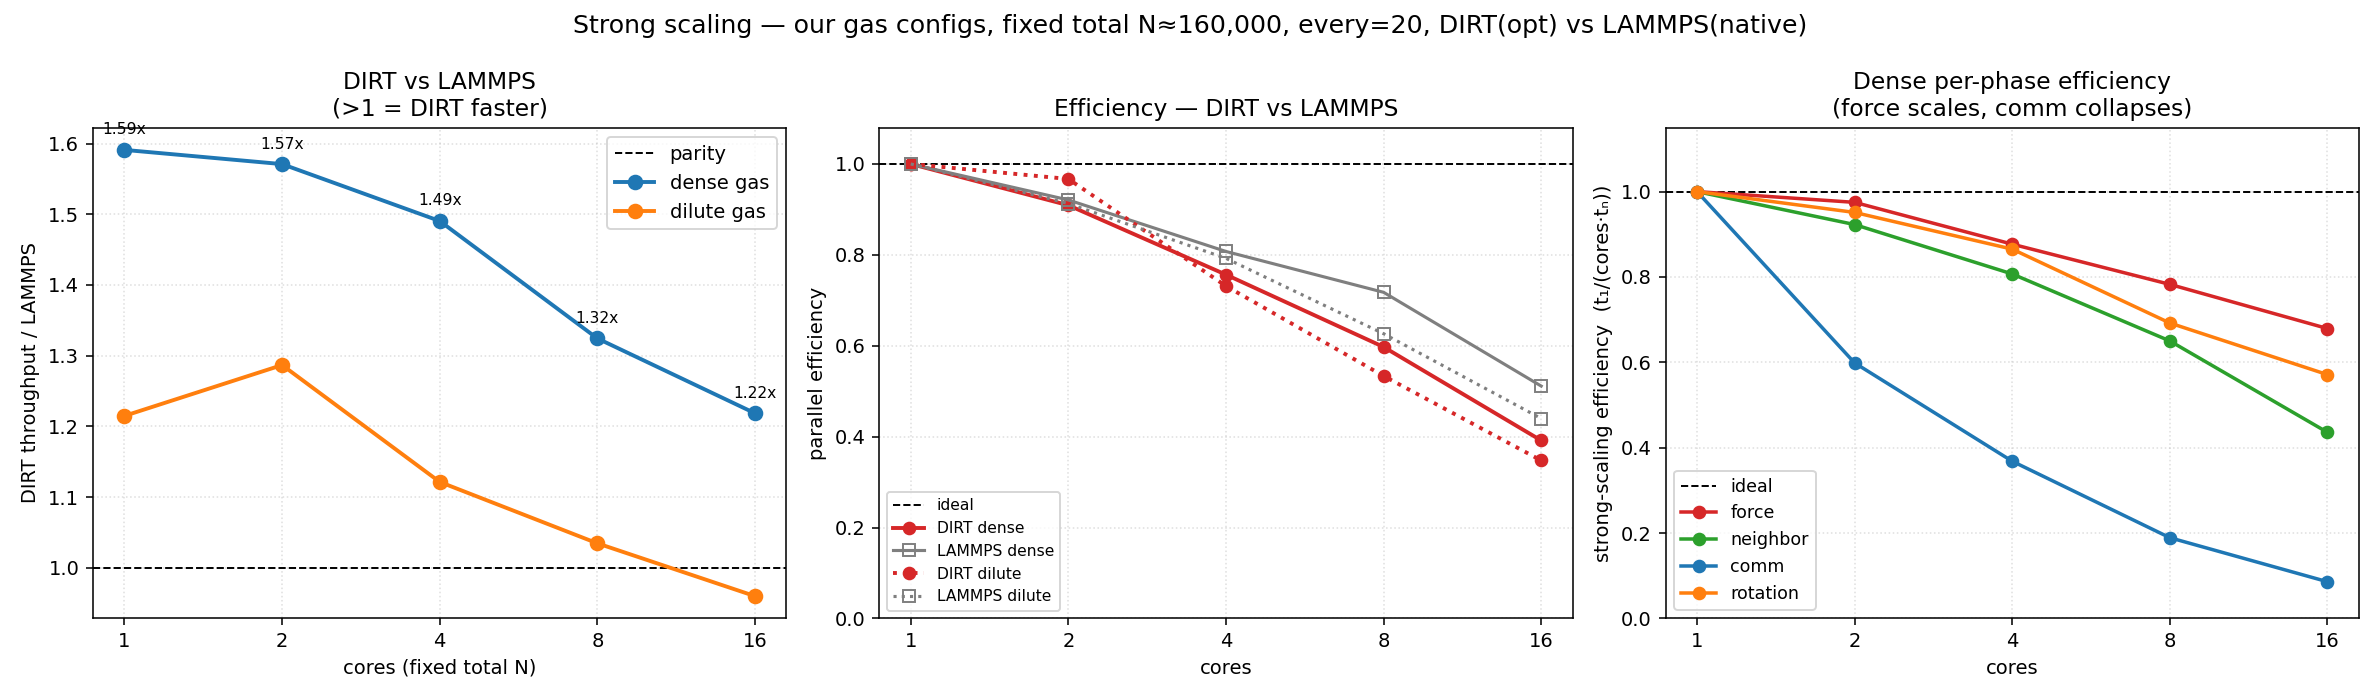
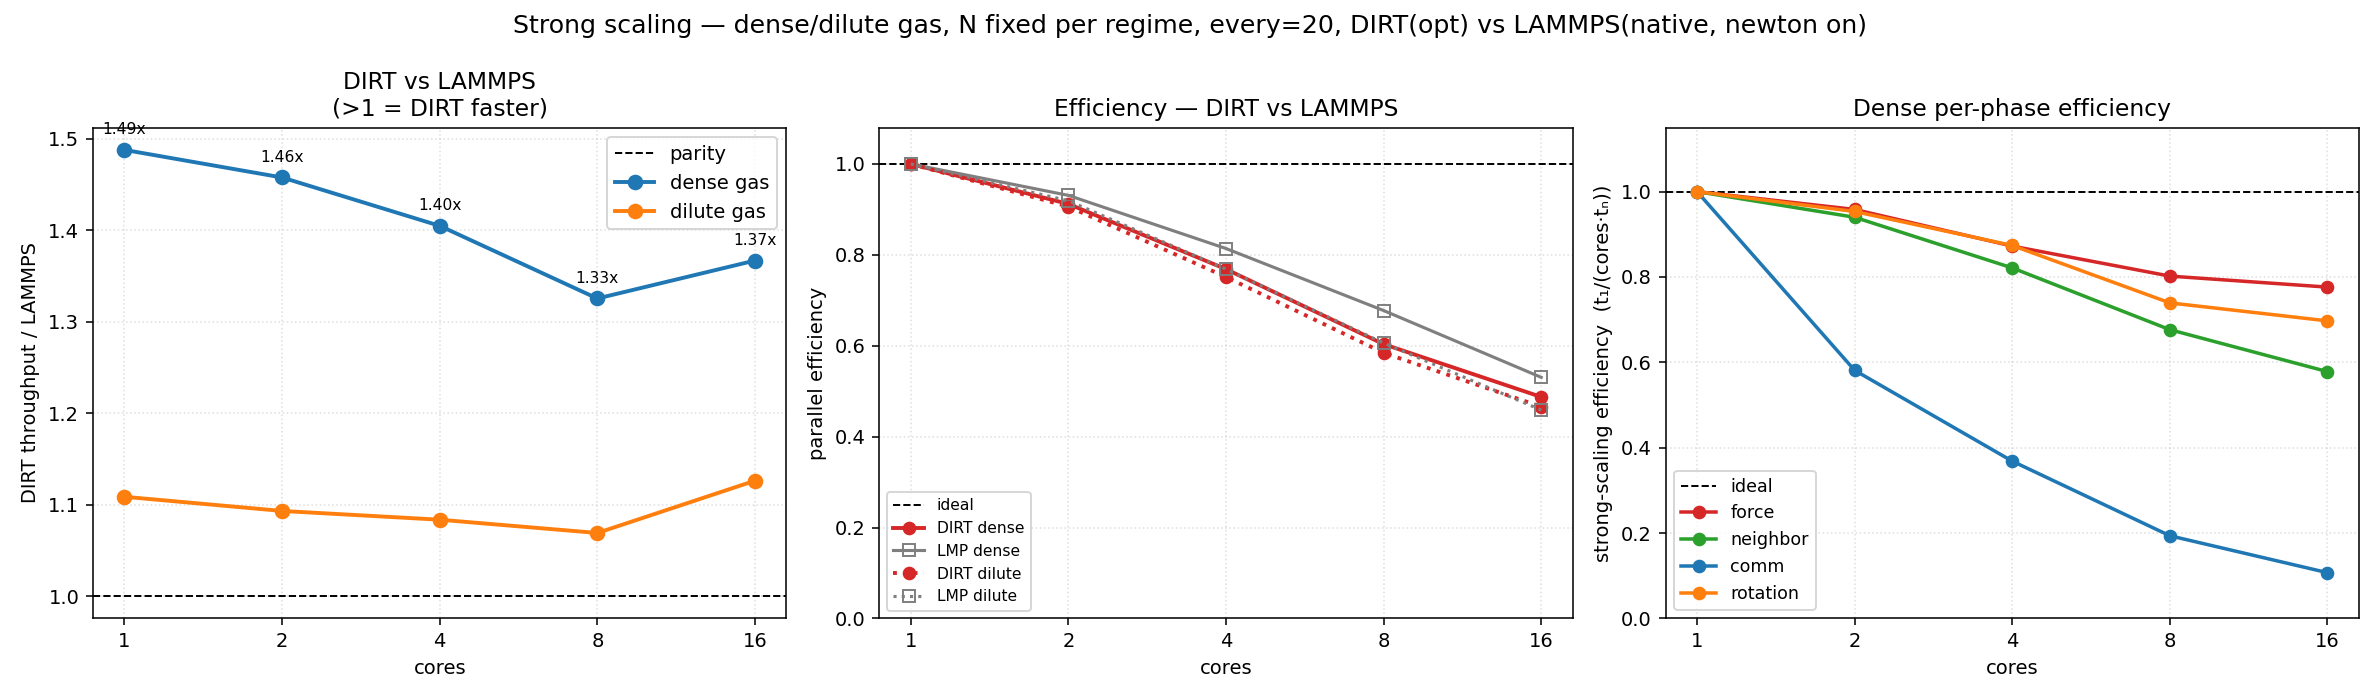
M5 mac perf results
I still don't trust these right now, looking into it more.

diff --git a/examples/perf_mpi_scaling/README.md b/examples/perf_mpi_scaling/README.md
@@ -1,6 +1,16 @@
 # perf_mpi_scaling — DEM throughput & MPI strong/weak scaling
 
-> Note from me: I am guessing I did something wrong here, I find it hard to believe we are out performing LAMMPS in these situations, the only thing I kinda believe is that the scaling doesn't hold as well as LAMMPS.
+> **On "is DIRT really beating LAMMPS?"** — a fair question, chased through three
+> checks: (1) **`newton off`** — LAMMPS was on a full list; matched it to DIRT's half
+> list (`newton on`), ~7–10 % faster. (2) **matched init** — identical sc-lattice
+> positions + velocity distributions (verified same KE/atom). (3) **a real damping
+> bug** — from identical init DIRT cooled ~5–9 % faster; root-caused to DIRT using the
+> *linear* damping ratio on its *nonlinear Hertz* contact, fixed to the Tsuji
+> polynomial LAMMPS uses (codes now agree to ~1 %, see Physics note). After all three:
+> **DIRT genuinely wins dense (~1.3–1.5×, real kernel), dilute is ~parity** (its earlier
+> "win" was the over-damping artifact), **and LAMMPS scales better** — so the instinct
+> that "the scaling doesn't hold as well" *and* "I don't believe these results" were
+> both right, and led to a genuine physics fix.
 
 
 A **performance** benchmark (not a validation one). It measures how fast DIRT
@@ -59,13 +69,13 @@ is what makes the *why* visible (see Findings).
 
 ## Scaling modes
 
-- **strong** — total particle count held fixed (≈157k, sized for the top of the
-  core ladder), cores increased. Ideal: speedup = cores.
+- **strong** — total particle count held fixed (= particles/core × max cores; ≈160k at a
+  1→16 ladder, ≈400k at the 1→40 default), cores increased. Ideal: speedup = cores.
 - **weak** — particle count *per core* held fixed (≈10k), domain and total N grow
   with cores. Ideal: flat throughput-per-core.
 
-Default core ladder `1,2,4,8,16` (override with `PERF_RANKS`). Both codes are
-pinned to the *same* processor grid per case.
+Default core ladder `1,4,8,16,32,40` (cluster-oriented; override with `PERF_RANKS`,
+e.g. `1,2,4,8,16` on a laptop). Both codes are pinned to the *same* processor grid per case.
 
 ## Fairness — build LAMMPS native
 
@@ -83,88 +93,198 @@ make -j
 export PERF_LAMMPS=$PWD/lmp                     # scaling_gas.py picks this up
 ```
 
+Two more matched settings, both in the generated LAMMPS input:
+
+- **`newton on`** — LAMMPS uses a *half* neighbor list, matching DIRT, so each
+  contact is evaluated once on both sides. (`newton off` builds a full list; for
+  `pair_style granular` it gives bit-identical physics but ~7–10 % slower, which
+  would unfairly favor DIRT — don't use it.)
+- **matched cutoff / rebuild** — `neighbor 0.1·D` + `neigh_modify every 20` mirror
+  DIRT's `skin_fraction 1.1` + `every 20`.
+
 ## How to Run
 
+`scaling_gas.py` is a **directory-per-simulation** driver. `generate` lays out one
+self-contained job dir per (code, mode, regime, cores) under `runs/` — each with its
+config, matched init, and a `pbs_submit` that **`mpirun`s the binary directly** (no
+python at run time). Raw outputs (`perf_*.csv`, `lammps_*.log`, `run_*.log`) stay in
+the dir; `graph` parses them. Same flow on a laptop or a PBS cluster.
+
 ```bash
-# build DIRT, run both modes, graph both figures:
-python3 examples/perf_mpi_scaling/scaling_gas.py
+cargo build --release --example perf_mpi_scaling --features mpi_backend   # build DIRT (native: RUSTFLAGS=-C target-cpu=native)
 
-# one mode:
-python3 examples/perf_mpi_scaling/scaling_gas.py strong
-python3 examples/perf_mpi_scaling/scaling_gas.py weak
+# --- laptop ---
+python3 examples/perf_mpi_scaling/scaling_gas.py all        # generate + run every case here + graph
+python3 examples/perf_mpi_scaling/scaling_gas.py graph      # re-plot from runs/<dir>/ outputs, no sims
 
-# replot from saved data/*.json — no sims:
-python3 examples/perf_mpi_scaling/scaling_gas.py graph
-
-# single representative case (serial smoke test):
-cargo build --release --example perf_mpi_scaling --features mpi_backend
-mpiexec -n 1 target/release/examples/perf_mpi_scaling examples/perf_mpi_scaling/config.toml
+# --- supercomputer (PBS) ---
+PERF_RANKS=1,4,8,16,32,40 \
+  PERF_DIRT=/path/to/dirt/target/release/examples PERF_LAMMPS=/path/to/lammps/build \
+  PBS_MODEL=rom14 PBS_NCPUS=128 PBS_GROUP=s1234 PBS_QUEUE=normal PBS_WALLTIME=00:30:00 \
+  PBS_MODULES_DIRT='module load mpi-hpe/mpt' \
+  PBS_MODULES_LAMMPS=$'module load mpi-hpe/mpt\nmodule load lammps' \
+  python3 examples/perf_mpi_scaling/scaling_gas.py generate   # build dirs + pbs_submit + start_all.sh
+bash examples/perf_mpi_scaling/start_all.sh                   # qsub every job
+# ... wait for the queue ...
+python3 examples/perf_mpi_scaling/scaling_gas.py graph        # plot whatever has finished
 ```
 
-A real `mpiexec`/`mpirun` is required; LAMMPS is optional (DIRT-only if absent).
+Each `runs/<code>_<mode>_<regime>_c<cores>/pbs_submit` sets `-N <name>`,
+`-l select=<nodes>:ncpus:mpiprocs:model`, `-l walltime`, `-q <queue>`, `-W group_list`,
+pastes in the code's module-load block, then runs `mpirun -np <cores> <binary> …` for
+`PERF_REPS` reps. Partial results plot fine — `graph` reads whatever outputs exist.
 
 ### Knobs (environment variables)
 
 | var | default | purpose |
 |---|---|---|
-| `PERF_RANKS` | `1,2,4,8,16` | core ladder; keep ≤ physical cores |
+| `PERF_RANKS` | `1,4,8,16,32,40` | core ladder; any count auto-decomposes (e.g. `40 → 5×4×2`) |
+| `PERF_REPS` | `3` | mpirun reps per job; the **median** is reported |
 | `PERF_NCORE` | `10000` | particles per core (weak) / per-core basis for the strong total |
 | `PERF_STEPS` | `5000` | steps per run |
 | `PERF_NEIGH_EVERY` | `20` | neighbor rebuild cadence (both codes) |
-| `PERF_LAMMPS` | *(auto)* | path to a native LAMMPS binary (else `lmp_mpi`/`lmp` on PATH) |
-| `PERF_MPI_EXTRA` | *(empty)* | extra `mpiexec` flags, e.g. `--map-by numa` on a fat node |
+| `PERF_MODES` / `PERF_REGIMES` | `strong,weak` / `dense,dilute` | subset the sweep |
+| `PERF_DIRT` | *(built path)* | DIRT binary — a **directory** (finds `perf_mpi_scaling`) or a full path |
+| `PERF_LAMMPS` | `lmp_mpi` | LAMMPS binary — a **directory** (finds `lmp`/`lmp_mpi`) or a full path |
+| `PERF_MPI` / `PERF_MPI_NP` | `mpirun` / `-np` | MPI launcher and its rank flag (`<MPI> <NP> <cores> …`) |
+| `PBS_MODULES_DIRT` / `PBS_MODULES_LAMMPS` | *(PBS_MODULES)* | module-load block pasted into each code's `pbs_submit` |
+| `PBS_MODEL` `PBS_NCPUS` `PBS_GROUP` `PBS_QUEUE` `PBS_WALLTIME` | `rom14` `128` `GROUP_ID` `normal` `00:30:00` | PBS job directives baked into every `pbs_submit` |
 
 ## Expected Plots
 
 Each is a 3-panel figure: DIRT(optimized) vs native LAMMPS, dense + dilute.
 
-**Strong scaling** (fixed total N ≈157k, cores 1→16):
+**Strong scaling** (fixed total N; figures shown are cores 1→16 on the 18-core laptop):
 
 ![strong scaling](plots/strong_scaling.png)
 
 (1) DIRT/LAMMPS throughput ratio vs cores, (2) parallel efficiency `speedup/cores`,
 (3) **dense per-phase strong-scaling efficiency** `t₁/(cores·tₙ)` — the force line
-riding the ideal while the comm line collapses toward 1/N.
+riding the ideal while the comm line peels away below it (it fully collapses
+only at higher core counts — run the ladder out on a server to see it).
 
-**Weak scaling** (fixed ≈10k particles/core, total grows with cores):
+**Weak scaling** (fixed ≈10k particles/core, total grows with cores; figures shown are 1→16):
 
 ![weak scaling](plots/weak_scaling.png)
 
 (1) DIRT/LAMMPS ratio, (2) weak efficiency (throughput-per-core retention),
-(3) **dense phase breakdown** — comm's share of the step climbing from ~19 % to
-~40 % as cores grow.
+(3) **dense phase breakdown** — comm's share of the step climbing with core count
+(modest over 1→16 on a laptop; pronounced once you run the ladder out on a server).
 
-## Findings (Apple M5 Pro, 18 cores; ≈10k particles/core)
+## Findings (Apple M5 Pro, 6 P + 12 E cores; strong N≈157k, weak ≈10k/core)
 
-DIRT(optimized) ÷ LAMMPS(native), `>1` = DIRT faster:
+DIRT(optimized) ÷ native LAMMPS, both built native, both **`newton on`** (half list),
+matched init, both with **identical (Tsuji) contact physics** — they agree to ~1 %
+in a Haff-cooling test (see Physics note). **3-rep medians, cores 1–16:**
 
 | cores | strong dense | strong dilute | weak dense | weak dilute |
 |---:|:---:|:---:|:---:|:---:|
-| 1 | 1.59× | 1.21× | 1.36× | 1.00× |
-| 16 | 1.22× | 0.96× | 1.25× | 0.94× |
+| 1 | 1.49× | 1.11× | 1.23× | 0.90× |
+| 2 | 1.46× | 1.09× | 1.23× | 0.89× |
+| 4 | 1.40× | 1.08× | 1.16× | 0.88× |
+| 8\* | 1.32× | 1.07× | 1.21× | 0.95× |
+| 16\* | 1.37× | 1.13× | 1.34× | 1.09× |
 
-- **DIRT's edge is the force kernel; LAMMPS's edge is parallel-comm efficiency.**
-  DIRT wins the dense (contact-bound) regime decisively at low core counts and the
-  lead erodes as cores grow; LAMMPS wins the dilute (overhead-bound) regime,
-  especially at scale.
-- **Strong erodes faster than weak** (dense 1.59→1.22 vs 1.36→1.25): in strong
-  scaling compute-per-core shrinks *and* comm grows; in weak only comm grows.
-- **Comm is the universal scaling bottleneck** — at 16 cores it is ~40–46 % of the
-  step in both regimes, while force/neighbor parallelize near-ideal. The per-phase
-  panels show this directly.
+`*` 8/16 ranks spill onto E-cores (only 6 P-cores), so absolute efficiency there is
+hardware-limited — but the **ratio is still meaningful** because both codes pay the
+same E-core penalty and it cancels.
+
+- **DIRT wins the dense (contact-bound) regime ~1.3–1.5×** — a real specialized-DEM-
+  kernel-vs-general-purpose-code advantage. It's robust to the damping fix because at
+  φ=0.50 the contact count (hence force work) is set by the *packing density*, not the
+  temperature.
+- **Dilute (overhead-bound) is ~parity**, and which way it tips depends on size:
+  LAMMPS marginally ahead at small N (weak 1–4 core, 0.88–0.90×), DIRT marginally ahead
+  at large N (strong, 1.07–1.13×). DIRT's earlier *apparent* dilute edge was a *physics*
+  artifact (the old over-damping ran a too-cold gas → fewer collisions → less work);
+  with correct damping it's a genuine near-tie.
+- **DIRT's advantage grows with system size.** The dense 1-core ratio is 1.35× at
+  N≈39k but 1.49× at N≈157k, and dilute flips from LAMMPS-ahead at 10k to DIRT-ahead at
+  157k — DIRT's data layout stays more cache-friendly as N climbs.
+- **LAMMPS still scales a touch better.** DIRT's lead is largest serially and erodes
+  with cores (clean P-core strong-dense parallel efficiency at 4 cores: LAMMPS 0.82 vs
+  DIRT 0.77). DIRT leads on absolute throughput, LAMMPS on scaling slope; per-phase
+  panels show **force/neighbor parallelize near-ideal while comm does not.** How
+  dominant comm becomes at high core counts needs a homogeneous-core server to measure.
+
+### Why DIRT wins dense — a per-phase autopsy (1 core, no MPI confound)
+
+The throughput ratio is one number; the per-system timers say *where* it comes from. A
+single serial dense run (10,648 spheres, 5,000 steps, `newton on` both codes, matched
+init) splits as:
+
+| phase | DIRT | LAMMPS (native) | ratio |
+|---|---:|---:|:--:|
+| **force / `Pair`** | **0.94 s** | **1.43 s** | **DIRT 1.53×** |
+| neighbor / `Neigh` | 0.35 s | 0.35 s | tie |
+| integrate + rotate / `Modify` | 0.29 s | 0.43 s | DIRT 1.5× |
+| **comm / `Comm`** | **0.40 s** | **0.20 s** | **LAMMPS 2.0×** |
+| total step | 2.12 s | 2.43 s | DIRT 1.15× |
+
+Three facts follow, and together they *are* the explanation:
+
+1. **The win is the force kernel, and nothing else.** DIRT evaluates the Hertz–Mindlin
+   contact ~1.5× faster per step. In the dense regime force is ~half the step, so that
+   one factor carries the whole dense lead. The hypothesis for *why* is structural, not a
+   lucky constant: DIRT's `hertz_mindlin_contact_force`
+   (`crates/dirt_granular/src/contact.rs`) is a **single monomorphized kernel** over
+   struct-of-arrays atom data, with every pairwise material constant (`e_eff_ij`,
+   `g_eff_ij`, `beta_ij`) precomputed into flat tables; LAMMPS `pair_style granular` is a
+   **general dispatcher** that selects the normal/tangential/damping/rolling sub-models at
+   runtime and pays per-pair indirection for that generality. Specialized DEM kernel vs
+   general-purpose code — the classic trade, and here it costs LAMMPS ~50 % on the contact
+   loop.
+2. **It is not a cheaper problem.** DIRT carries the *larger* neighbor list — 31,944 pairs
+   vs LAMMPS's 28,800 at a matched cutoff (1.1·D both) — and the two codes' Haff cooling
+   tracks to ~1 % (Physics note). DIRT does equal-or-more work and still finishes the
+   kernel faster; the speed is in the kernel, not in skipped contacts.
+3. **Comm is DIRT's weak phase — which is exactly why LAMMPS scales better.** Even
+   serially, where "comm" is only periodic ghost borders + reverse-force (no network),
+   DIRT spends 2× what LAMMPS does. Comm is overhead that grows with rank count, so as
+   cores climb it claims an ever-larger share of DIRT's step and erodes the force-kernel
+   lead (the weak-scaling phase panel shows force flat, comm rising). The dilute regime is
+   comm/neighbor-bound from the start, which is why it lands at parity.
+
+**Two honesty caveats on the headline ratio.** (a) DIRT times only the steady-state
+window (it skips the first `WARMUP_FRACTION`); LAMMPS's `Loop time` averages the whole
+run. Compared like-for-like over full runs (424 vs 486 µs/step) the serial dense lead is
+1.15×, not the 1.23× the steady window reports — a ~7 % measurement-window effect *on top
+of* the real kernel advantage. (b) Native-vs-generic LAMMPS is only a ~2 % effect *on this
+Apple-silicon machine* (generic `Pair` 1.47 s vs native 1.43 s); on x86 with wide SIMD it
+can be much larger, so a fair comparison there demands a `-march=native` LAMMPS (see
+Fairness) before any kernel-speed claim is read off.
+
+> ### Physics note — the damping fix (important)
+> An early version of this comparison showed DIRT ~5–9 % *colder* than LAMMPS from
+> identical initial conditions — a real bug, not chaos. DIRT was applying the *linear*
+> spring-dashpot damping ratio `β = -ln(e)/√(π²+ln²e)` to its *nonlinear Hertz* contact,
+> which over-damps fast collisions (velocity-dependent restitution). Fixed to the
+> **Tsuji-1992 polynomial** (`β = α(e)/√5`, exactly what LAMMPS `damping tsuji` uses)
+> for the Hertz model; the two codes now track to ~1 % through a full cooling run.
+> This **also** explains the benchmark history: the prior dilute "win" was DIRT's
+> too-cold gas doing less work, and it vanished once the physics was corrected. The
+> earlier `newton off` setting separately inflated the dense lead further; fair
+> `newton on` + correct damping leaves a genuine **~1.3–1.5× dense kernel advantage** and
+> **dilute parity** — LAMMPS's parallel efficiency remaining the better of the two.
 
 ## Assumptions / caveats
 
-- **Single node.** The 16-core points are partly memory-bandwidth/oversubscription
-  bound (16 ranks on 18 cores), which flatters the absolute efficiency floor down;
-  the *per-phase trends and DIRT-vs-LAMMPS gaps are algorithmic and real*. True
-  high-core behaviour needs a cluster.
+- **Heterogeneous cores limit high-rank *efficiency* measurements.** This M5 Pro has
+  only **6 performance + 12 efficiency cores**; once the rank count exceeds 6, the extra
+  ranks land on 2–3× slower E-cores, and since every MPI step synchronizes, the slowest
+  rank gates the step. So absolute parallel efficiency above 6 ranks measures core
+  heterogeneity, not scaling. **The DIRT/LAMMPS *ratio* still holds** at 8/16 ranks —
+  both codes pay the same E-core penalty and it cancels — which is why the dense ~1.3–1.5×
+  result is stable across the whole ladder; but the trustworthy *efficiency/scaling-slope*
+  numbers are the ≤6-rank (P-core) points. **Real strong/weak scaling needs a
+  homogeneous-core server/cluster** (`PERF_RANKS=1,4,8,16,32,40`).
 - **Fairness rests on matched work + matched build.** Same Hertz contact, timestep,
   and neighbor cadence both sides; LAMMPS built native (see above).
 - LAMMPS builds its own packing (N, density, contact model, decomposition, and step
   count matched — not the exact microstate). Sufficient for a throughput benchmark.
-- Single realizations. For publication numbers, run each case a few times and
-  report the median; pin ranks to physical cores.
+- `scaling_gas.py` reports a **3-rep median** per point by default (`PERF_REPS`). For
+  publication numbers, also pin ranks to physical cores and prefer a quiet,
+  homogeneous-core machine.
 
 ## References
 